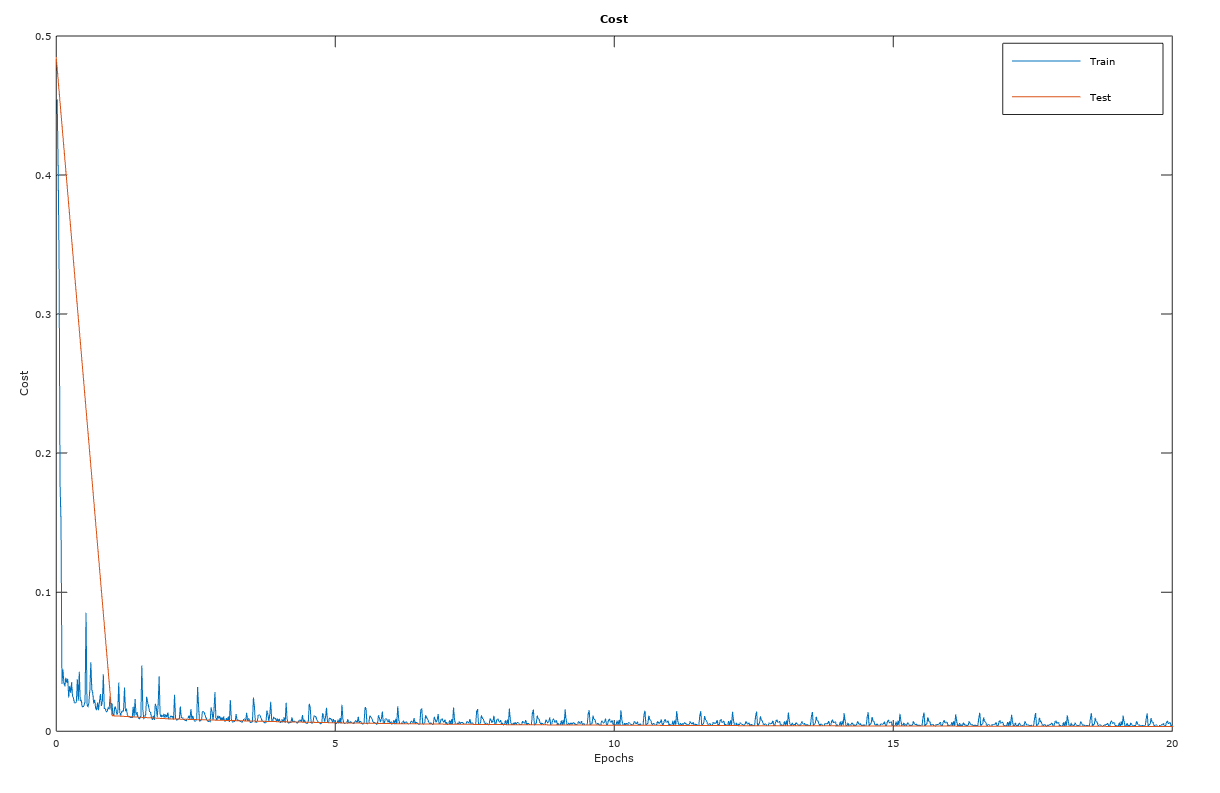
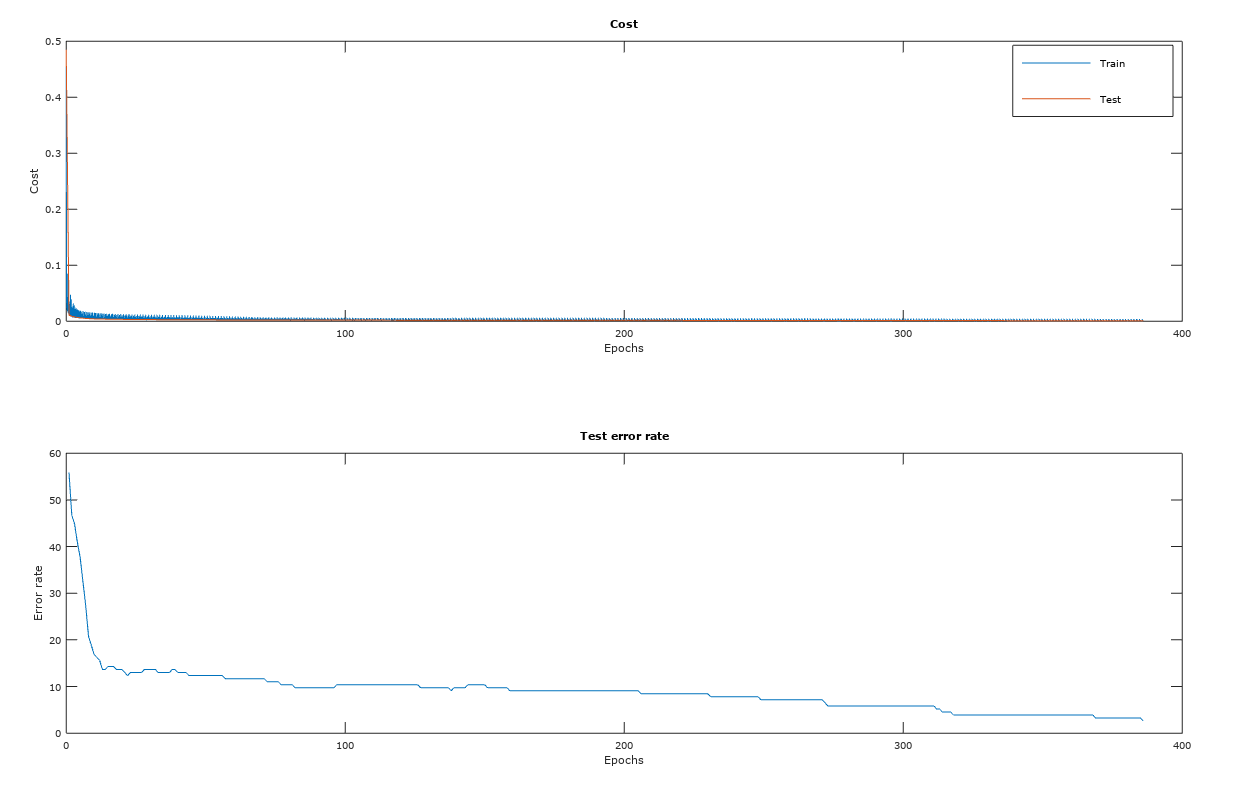
test 30 grafico

Changed region(s): [[0.0311, 0.4879, 0.9656, 0.9759], [0.0, 0.0, 0.9656, 0.4574], [0.4672, 0.5489, 0.5607, 0.5794]]

diff --git a/TP1/config.m b/TP1/config.m
@@ -2,7 +2,7 @@
 n_inputs = 2;
 n_outputs = 1;
 hidden_layers = [40 20];
-lr = 0.01;
+lr = 0.05;
 f_activation_name = 'tanh';
 slope = 1;
 initialization = 'uniform_one';
@@ -10,9 +10,9 @@ input_lower_bound = -1;
 input_upper_bound = 1;
 
 %% Train config
-batch_size = 500;
+batch_size = 5;
 epochs = 1;
-algorithm = 'vanilla';      % 'momentum' 'adaptive' 'vanilla'
+algorithm = 'momentum';      % 'momentum' 'adaptive' 'vanilla'
 alfa = 0.9;                  % momentum config
 cost_interval = 5;          % adaptive config
 inc_steps = 3;               % adaptive config
@@ -28,10 +28,10 @@ n_toperrors = 10;
 
 %% Set config
 filename = 'terrain02.data';
-seed = 8099;  % use time() for a different seed each config
+seed = 30834;  % use time() for a different seed each config
 test_ratio = 0.35;
 
 %Train Test config
-max_tries = 20000;
+max_tries = 1000;
 test_error = 3;     % error percentage to achieve
 min_cost_change = 1e-6;
